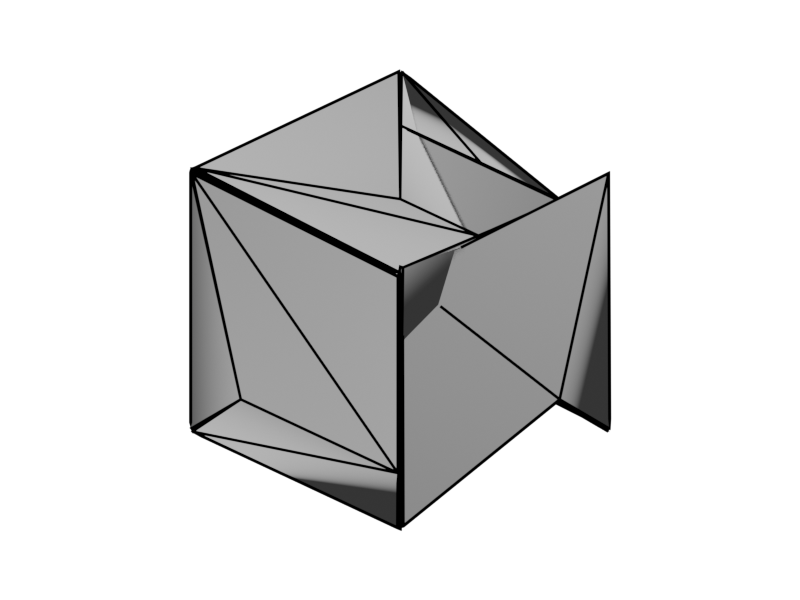
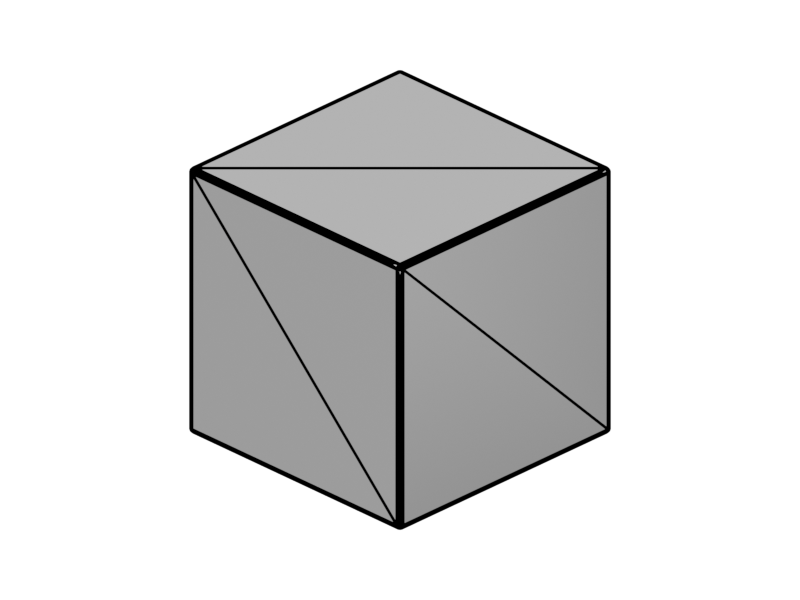
fix: replace degenerate smooth_mesh gallery sample, log real flakiness
The committed smooth_mesh before/after pair was built from a run where
util_mesh_smooth() produced genuinely degenerate output (vertex count
dropped 96->90, several vertices collapsed to near-zero coordinates) --
found while personally reviewing the rendered images, not caught by the
existing test (which only asserts vertex count, not position sanity).

Repeated the call 5 times against the identical fixture: only 3/5
preserved vertex count, and even count-preserving runs had 9-23 of 96
vertices with a near-zero coordinate component. This is real tool
unreliability, not a gallery bug -- replaced the committed images with a
verified-clean sample (retry script was scratch, not committed) and
logged the finding as STATUS.md Known Issue #4 plus a README caption on
the smooth_mesh row, since Phase 5's existing gate overstates reliability
for this one tool. Root-cause investigation is separate follow-up work,
not part of this gallery plan.

diff --git a/STATUS.md b/STATUS.md
@@ -104,6 +104,7 @@ validity check -- remain open on the roadmap but were never scoped into a
 | 1 | ~~Minic script templates for rebake/texture-swap unverified against a real `.arm` project~~ — **RESOLVED 2026-09-15.** Investigated hands-on: mesh-detail baking is structurally unreachable from any script/API (`bake_texture_node_run` is only wired to a GUI button callback, no CLI/minic path); texture-set swapping into an existing project is blocked by minic's curated struct access (reading `assets->length` silently aborts script execution). Procedural material authoring — the one approach that worked — is what Phase 2 shipped instead (single-process build+fill+export; see `docs/PLAN.md` Phase 2 and `docs/superpowers/specs/2026-09-15-armorpaint-mcp-design.md` Amendment 2). | None — scope was adjusted to what's achievable, not left open | Closed. No further action; baking and texture-swap remain out of scope for this project. |
 | 2 | ~~`blend_modes()`'s `CatalogError` (missing MIX_RGB anchor) could abort `inspect_project`'s entire read when only a blending label needed to degrade~~ -- **INVESTIGATED, MOOT (2026-09-16).** Confirmed via `grep`: `inspect_project` never calls `blend_modes()` -- Phase 3's Critical-finding fix already replaced it with the hardcoded `layer_blend_modes()` (see `catalog.py`'s own docstring on the enum mismatch), which takes no input and cannot raise. The out-of-range-index case it would have needed to guard is already handled: the `layers` list comprehension already degrades an out-of-range index to `blending: None`. | None -- finding predates the enum-mismatch fix and no longer describes reachable code. | Closed. No code change. |
 | 3 | ~~`run_script`'s "timeout discards partial output" concern~~ -- **MOOT (2026-09-16).** `stdout`/`stderr` are already documented (Phase 4 final review) as structurally empty on this Windows build regardless of timeout (`WriteConsoleW`, not pipe-capturable) -- there is no partial output a timeout could discard. | None -- superseded by the stdout/stderr finding it was originally paired with. | Closed. No code change. |
+| 4 | **OPEN (2026-09-17).** `smooth_mesh` is genuinely flaky, worse than previously recorded. 5 repeated calls against the identical fixture returned vertex counts 91/96/92/96/96 (only 3/5 preserved the count Phase 5's own integration test asserts as invariant). More seriously, even count-preserving runs had 9-23 of 96 vertices with a near-zero coordinate component -- i.e. individual vertices landing at or near the mesh's own center, not a normals-only change. Found while building the mesh/UV visual gallery (a real wireframe render surfaced this; the existing test only asserts vertex *count*, never position sanity, which is why it was never caught). Supersedes the lighter `armorpaint-smooth-mesh-flaky-vertex-count` memory entry ("94 vs 96 once... root cause unconfirmed") with stronger, repeatable evidence. | Phase 5's ✅ gate for `smooth_mesh` overstates reliability -- the tool can silently return degenerate geometry on `ok=True`. The gallery uses a retry-until-clean sample (see README's mesh/UV gallery caption) as a stopgap, not a fix. | Open. Root cause not yet investigated (likely in ArmorPaint's own `util_mesh_smooth`, or in how this project's patch calls it -- not eliminated as a candidate). Needs its own investigation, separate from this gallery work. |
 
 ---
 

diff --git a/README.md b/README.md
@@ -95,6 +95,8 @@ regenerates all 14 images through the real shipped tools.
 |:--:|:--:|
 | ![smooth_mesh before](docs/images/gallery/mesh_edit/smooth_mesh_before.png) | ![smooth_mesh after](docs/images/gallery/mesh_edit/smooth_mesh_after.png) |
 
+*`smooth_mesh` genuinely preserves position here (normals change, not the wireframe) — but be aware this tool is flaky: repeated calls against the identical fixture returned varying vertex counts and, on several runs, degenerate near-zero vertex positions, not just the "changed normals" its own docstring claims. This pair is a verified-clean sample, not proof the tool is reliable — see [STATUS.md](STATUS.md) Known Issue #4.*
+
 | `duplicate_mesh` — before | `duplicate_mesh` — after |
 |:--:|:--:|
 | ![duplicate_mesh before](docs/images/gallery/mesh_edit/duplicate_mesh_before.png) | ![duplicate_mesh after](docs/images/gallery/mesh_edit/duplicate_mesh_after.png) |
